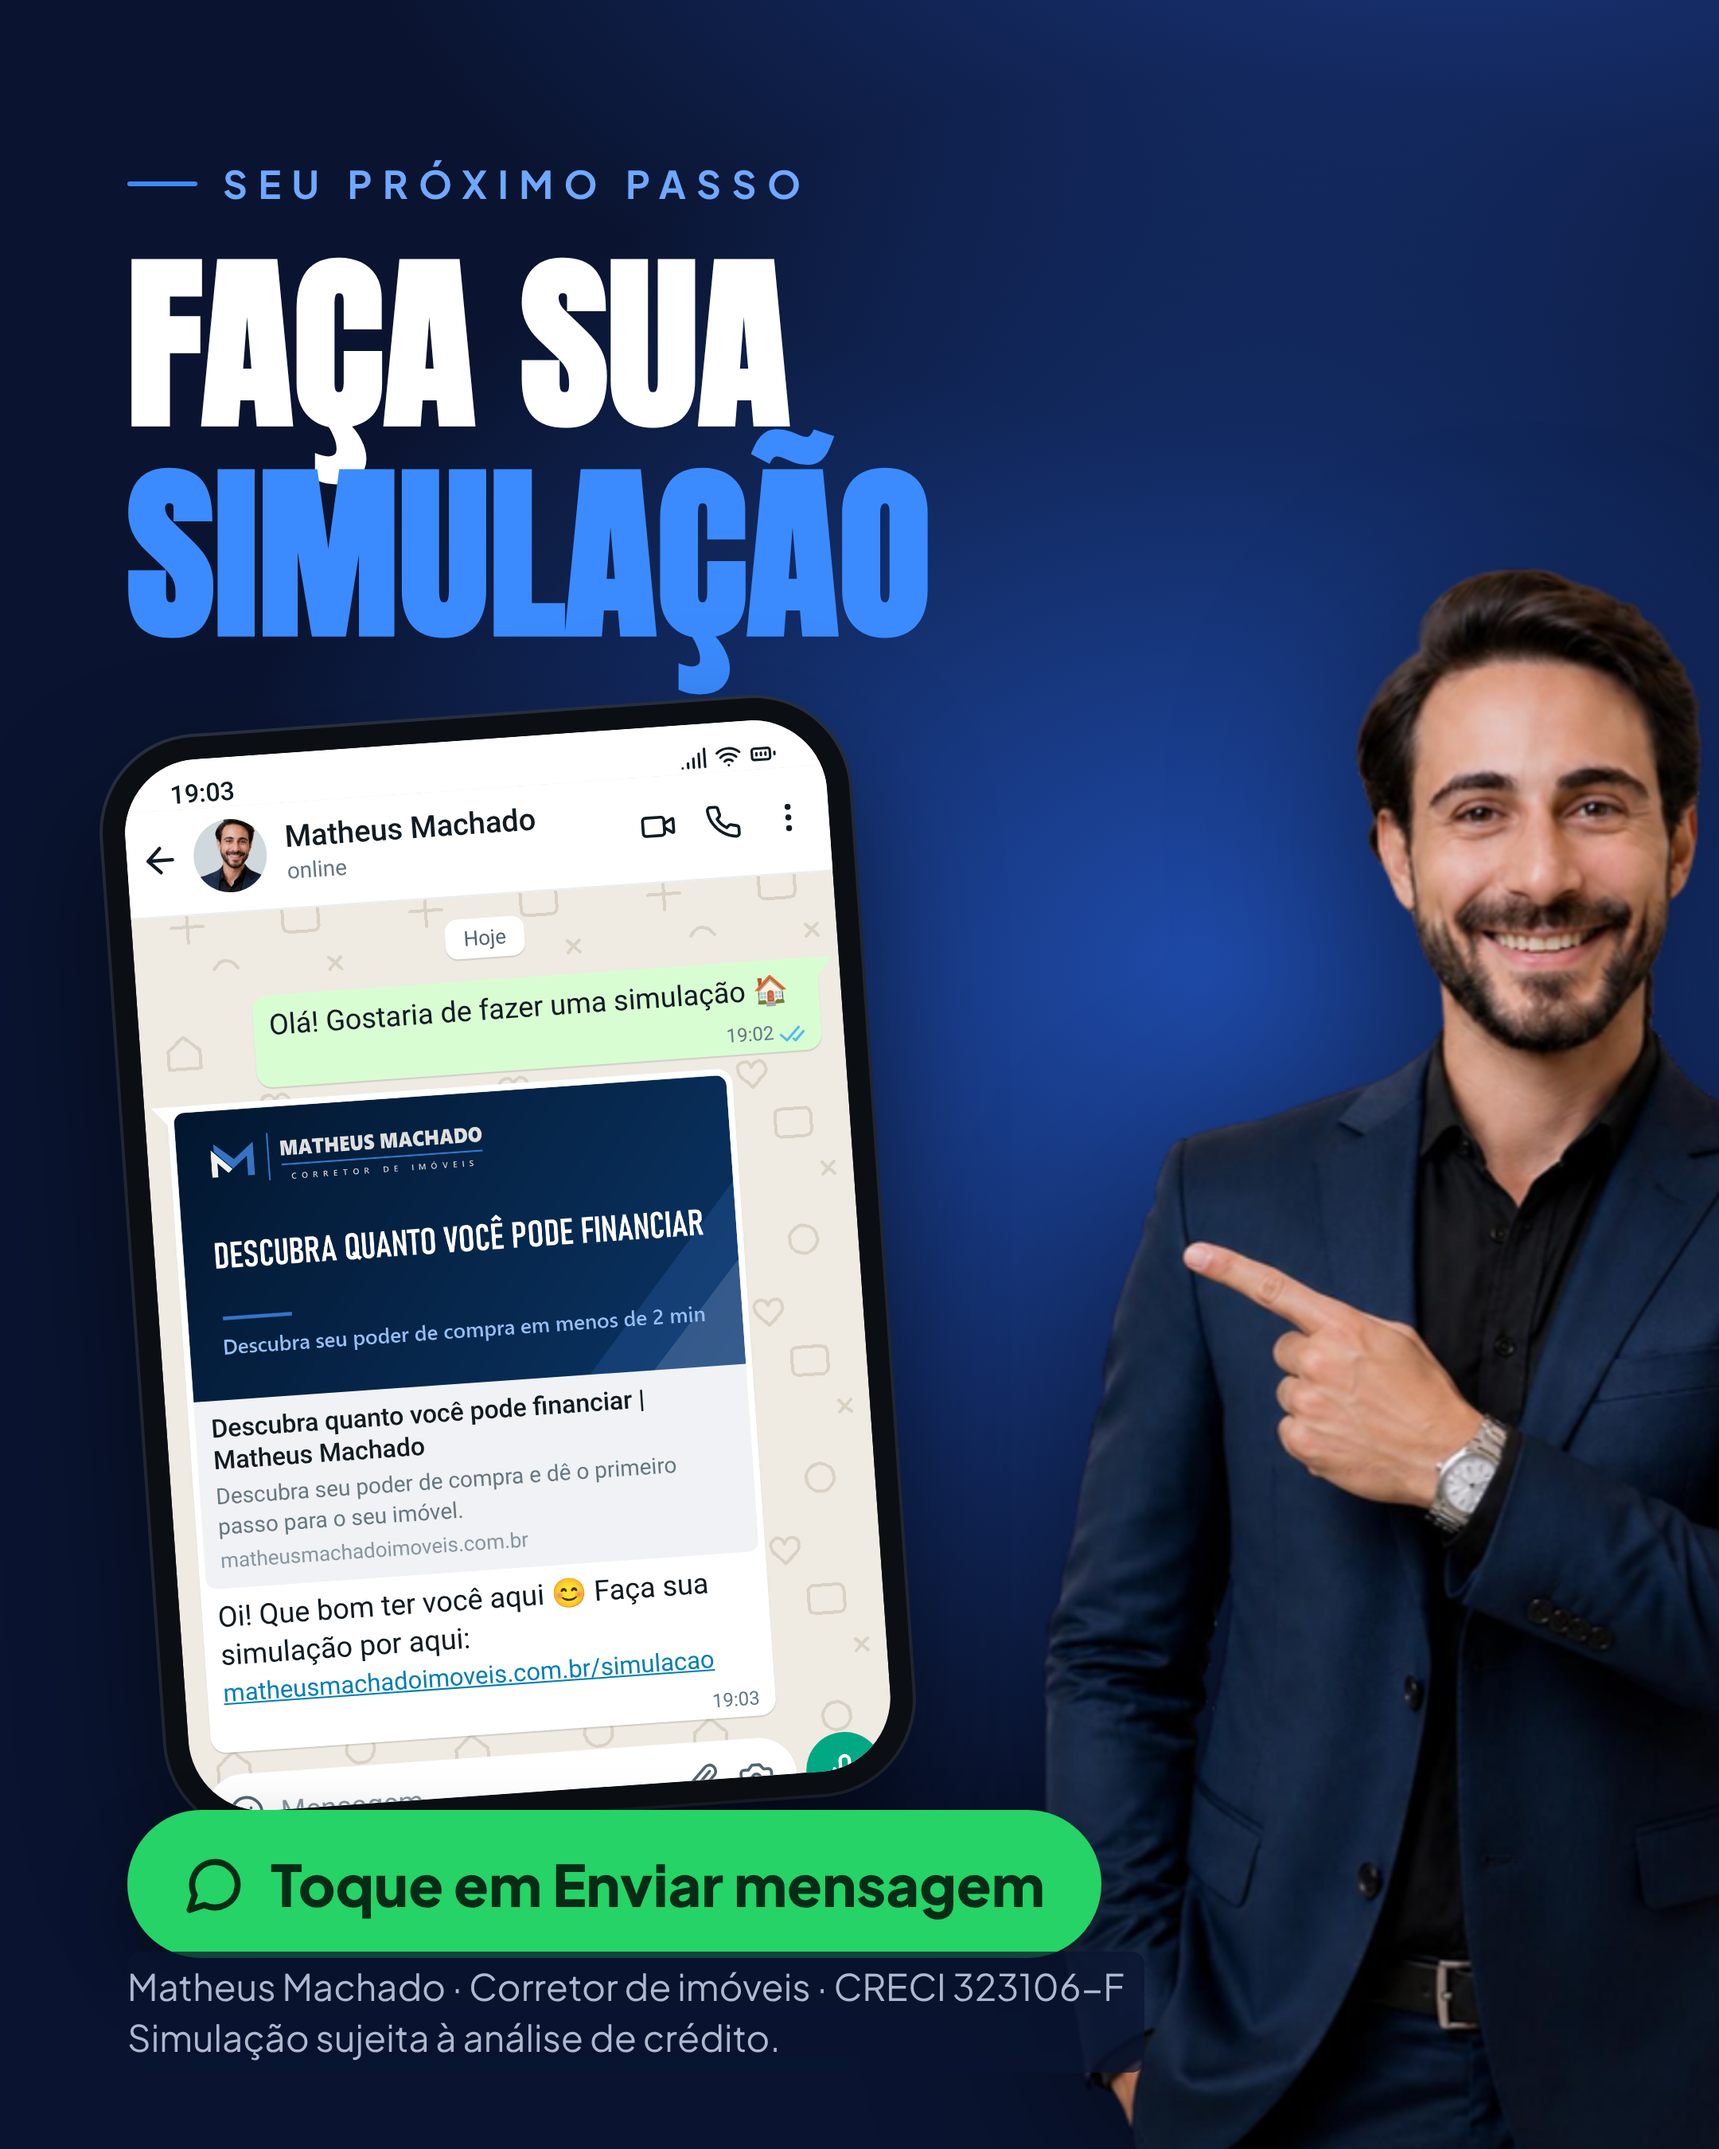
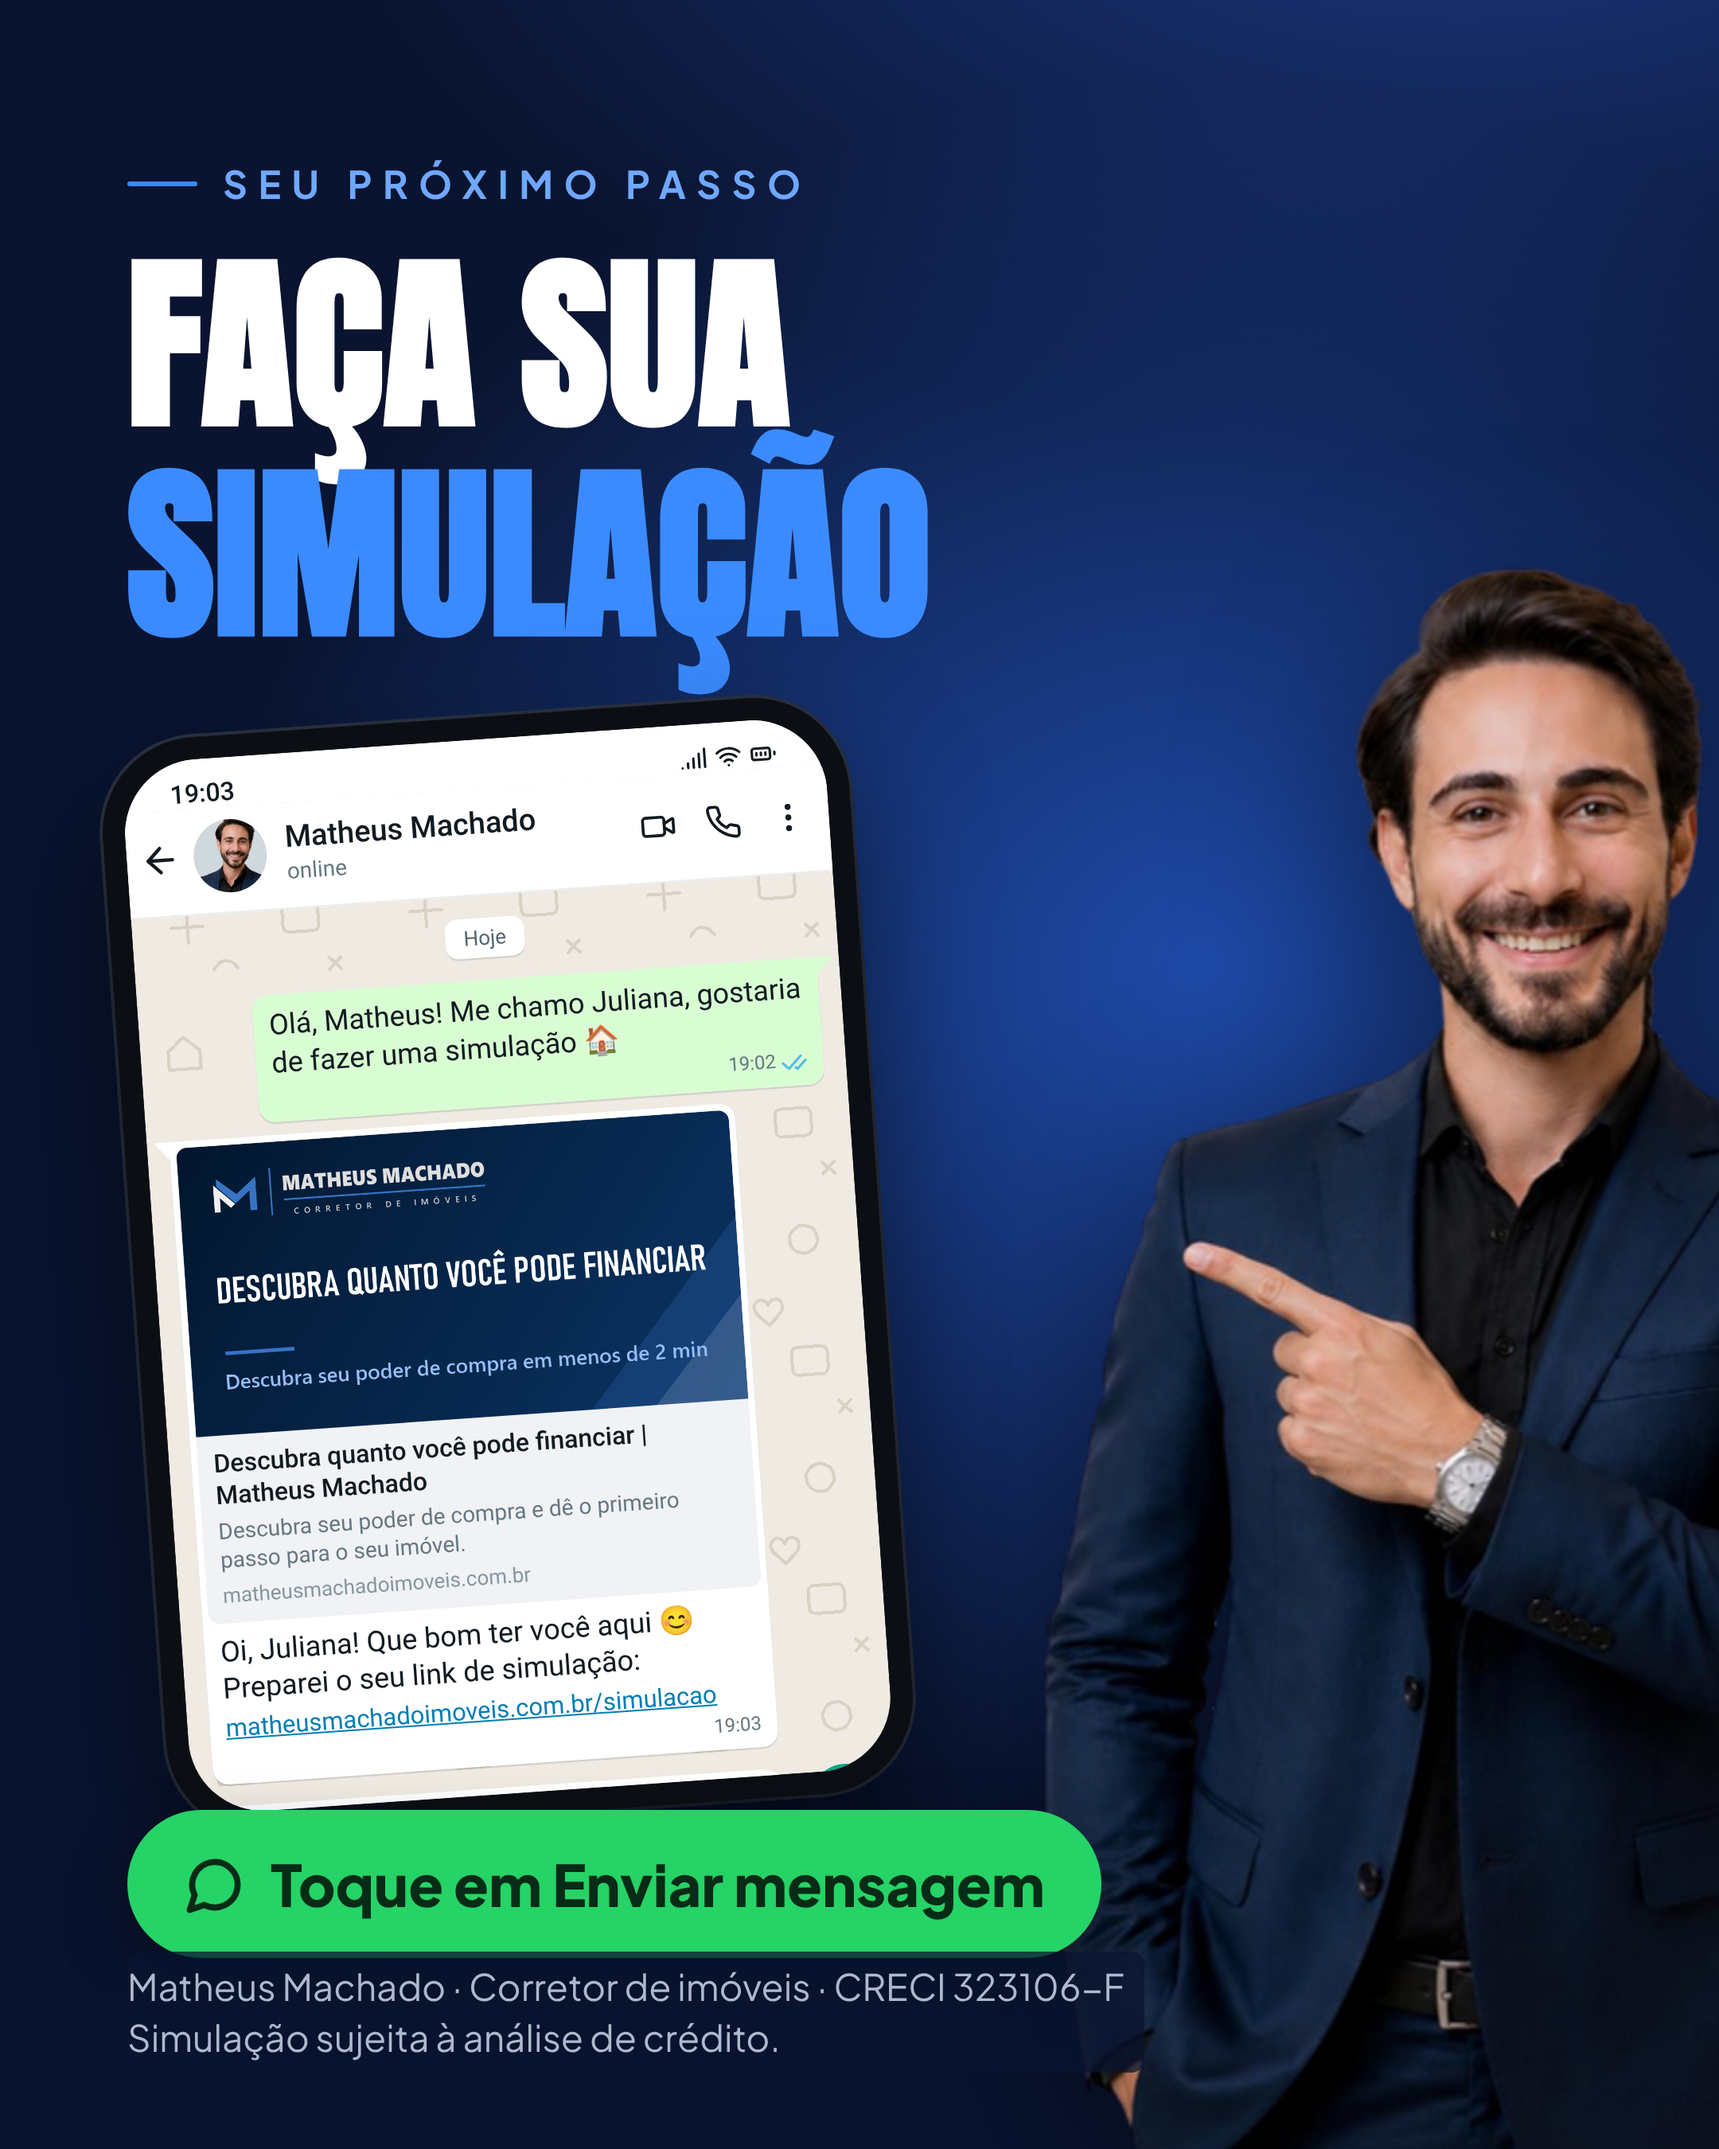
docs(posicionamento): conversa do anúncio com nome fictício de cliente (atendimento personalizado)
Claude-Session: https://claude.ai/code/session_018X91MFfPMRMPYSAfb3KdfT

Changed region(s): [[0.0931, 0.4356, 0.4963, 0.84]]

diff --git a/docs/posicionamento/carrosseis/2026-10-12-anuncio-aluguel/laminas.html b/docs/posicionamento/carrosseis/2026-10-12-anuncio-aluguel/laminas.html
@@ -109,7 +109,7 @@
   .tela .msgs { flex:1; padding:14px 14px 8px; display:flex; flex-direction:column; gap:8px; justify-content:flex-end; }
   .tela .dia { align-self:center; background:#fff; color:#54656F; font-size:13px; padding:5px 12px; border-radius:8px; box-shadow:0 1px .5px rgba(11,20,26,.13); margin-bottom:6px; }
   .bal { max-width:86%; padding:7px 10px 8px; border-radius:10px; font-size:18px; line-height:1.32; position:relative; box-shadow:0 1px .5px rgba(11,20,26,.13); }
-  .bal .hora { float:right; margin:8px 0 -6px 10px; font-size:12px; color:#667781; display:inline-flex; align-items:center; gap:3px; }
+  .bal .hora { display:flex; justify-content:flex-end; margin:2px 0 -2px; font-size:12px; color:#667781; align-items:center; gap:3px; }
   .bal .hora svg { width:17px; height:17px; stroke:#53BDEB; stroke-width:2.2; }
   .bal.eu { align-self:flex-end; background:#D9FDD3; border-top-right-radius:0; }
   .bal.ele { align-self:flex-start; background:#fff; border-top-left-radius:0; padding:4px 4px 8px; width:86%; }
@@ -244,10 +244,10 @@
       <p class="nome"><b>Matheus Machado</b><small>online</small></p><span class="acoes"><svg viewBox="0 0 24 24"><path d="m16 13 5.223 3.482a.5.5 0 0 0 .777-.416V7.87a.5.5 0 0 0-.752-.432L16 10.5" /> <rect x="2" y="6" width="14" height="12" rx="2" /></svg><svg viewBox="0 0 24 24"><path d="M22 16.92v3a2 2 0 0 1-2.18 2 19.79 19.79 0 0 1-8.63-3.07 19.5 19.5 0 0 1-6-6 19.79 19.79 0 0 1-3.07-8.67A2 2 0 0 1 4.11 2h3a2 2 0 0 1 2 1.72 12.84 12.84 0 0 0 .7 2.81 2 2 0 0 1-.45 2.11L8.09 9.91a16 16 0 0 0 6 6l1.27-1.27a2 2 0 0 1 2.11-.45 12.84 12.84 0 0 0 2.81.7A2 2 0 0 1 22 16.92z" /></svg><svg viewBox="0 0 24 24"><circle cx="12" cy="12" r="1" /> <circle cx="12" cy="5" r="1" /> <circle cx="12" cy="19" r="1" /></svg></span></div>
     <div class="msgs">
       <span class="dia">Hoje</span>
-      <div class="bal eu">Olá! Gostaria de fazer uma simulação 🏠<span class="hora">19:02 <svg viewBox="0 0 24 24"><path d="M18 6 7 17l-5-5" /> <path d="m22 10-7.5 7.5L13 16" /></svg></span></div>
+      <div class="bal eu">Olá, Matheus! Me chamo Juliana, gostaria de fazer uma simulação 🏠<span class="hora">19:02 <svg viewBox="0 0 24 24"><path d="M18 6 7 17l-5-5" /> <path d="m22 10-7.5 7.5L13 16" /></svg></span></div>
       <div class="bal ele">
         <div class="prev"><img src="img/og-simulacao-v3.png" alt=""><div><b>Descubra quanto você pode financiar | Matheus Machado</b><p>Descubra seu poder de compra e dê o primeiro passo para o seu imóvel.</p><small>matheusmachadoimoveis.com.br</small></div></div>
-        <div class="txt">Oi! Que bom ter você aqui 😊 Faça sua simulação por aqui:<br><span class="link">matheusmachadoimoveis.com.br/simulacao</span><span class="hora">19:03</span></div>
+        <div class="txt">Oi, Juliana! Que bom ter você aqui 😊 Preparei o seu link de simulação:<br><span class="link">matheusmachadoimoveis.com.br/simulacao</span><span class="hora">19:03</span></div>
       </div>
     </div>
     <div class="input"><span class="campo"><svg viewBox="0 0 24 24"><circle cx="12" cy="12" r="10" /> <path d="M8 14s1.5 2 4 2 4-2 4-2" /> <line x1="9" x2="9.01" y1="9" y2="9" /> <line x1="15" x2="15.01" y1="9" y2="9" /></svg><span class="esp">Mensagem</span><svg viewBox="0 0 24 24"><path d="M13.234 20.252 21 12.3" /> <path d="m16 6-8.414 8.586a2 2 0 0 0 0 2.828 2 2 0 0 0 2.828 0l8.414-8.586a4 4 0 0 0 0-5.656 4 4 0 0 0-5.656 0l-8.415 8.585a6 6 0 1 0 8.486 8.486" /></svg><svg viewBox="0 0 24 24"><path d="M14.5 4h-5L7 7H4a2 2 0 0 0-2 2v9a2 2 0 0 0 2 2h16a2 2 0 0 0 2-2V9a2 2 0 0 0-2-2h-3l-2.5-3z" /> <circle cx="12" cy="13" r="3" /></svg></span><span class="mic"><svg viewBox="0 0 24 24"><path d="M12 2a3 3 0 0 0-3 3v7a3 3 0 0 0 6 0V5a3 3 0 0 0-3-3Z" /> <path d="M19 10v2a7 7 0 0 1-14 0v-2" /> <line x1="12" x2="12" y1="19" y2="22" /></svg></span></div>
